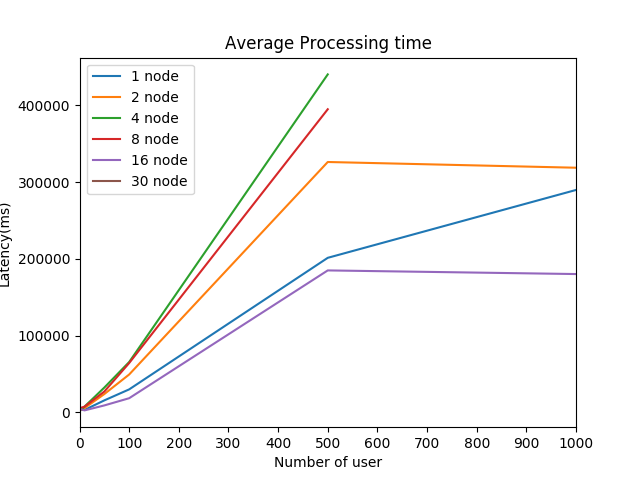
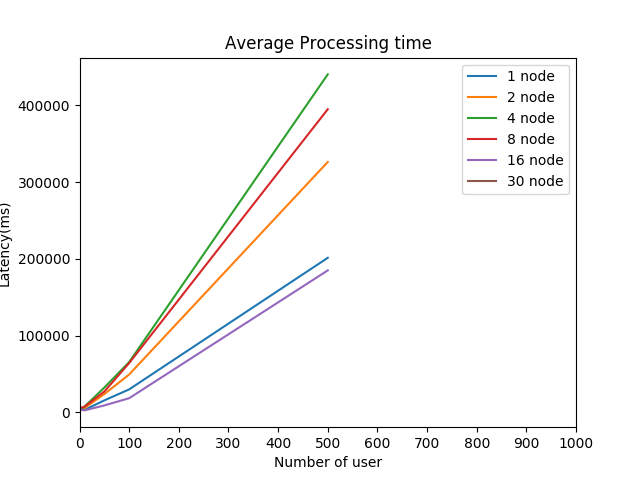
Fix plot py

diff --git a/utm-network/client/plot/plot_user_average.py b/utm-network/client/plot/plot_user_average.py
@@ -6,24 +6,12 @@ import matplotlib.ticker as ticker
 for numOfNode in [1, 2, 4, 8, 16, 30]:
     node = "node" + str(numOfNode)
     path = "./plot_data/" + node
-    requests = [1, 5, 10, 50, 100, 500, 1000]
+    requests = [1, 5, 10, 50, 100, 500]
     averages = []
     for numOfRequest in requests:
 
         rawData = np.loadtxt(path + "/user" + str(numOfRequest),
                         delimiter=' ', skiprows=1, usecols=(1, 2), dtype=str)
-        # user5 = np.loadtxt(path + "/user5",
-        #                 delimiter=' ', skiprows=1, usecols=(2))
-        # user10 = np.loadtxt(path + "/user10",
-        #                 delimiter=' ', skiprows=1, usecols=(2))
-        # user50 = np.loadtxt(path + "/user50",
-        #                 delimiter=' ', skiprows=1, usecols=(2))
-        # user100 = np.loadtxt(path + "/user100",
-        #                 delimiter=' ', skiprows=1, usecols=(2))
-        # user500 = np.loadtxt(path + "/user500",
-        #                 delimiter=' ', skiprows=1, usecols=(2))
-        # user1000 = np.loadtxt(path + "/user1000",
-        #                 delimiter=' ', skiprows=1, usecols=(2))
 
         successData = []
         for data in rawData:
@@ -33,14 +21,6 @@ for numOfNode in [1, 2, 4, 8, 16, 30]:
 
         averages.append(np.mean(successData))
 
-        # user1_ave = np.mean(user1)
-        # user5_ave = np.mean(user5)
-        # user10_ave = np.mean(user10)
-        # user50_ave = np.mean(user50)
-        # user100_ave = np.mean(user100)
-        # user500_ave = np.mean(user500)
-
-    # plt.plot(user1[:, 0], user1[:, 1])
     plt.plot(requests, averages, label=str(numOfNode) + ' node')
 
 # 横軸は整数値にする
